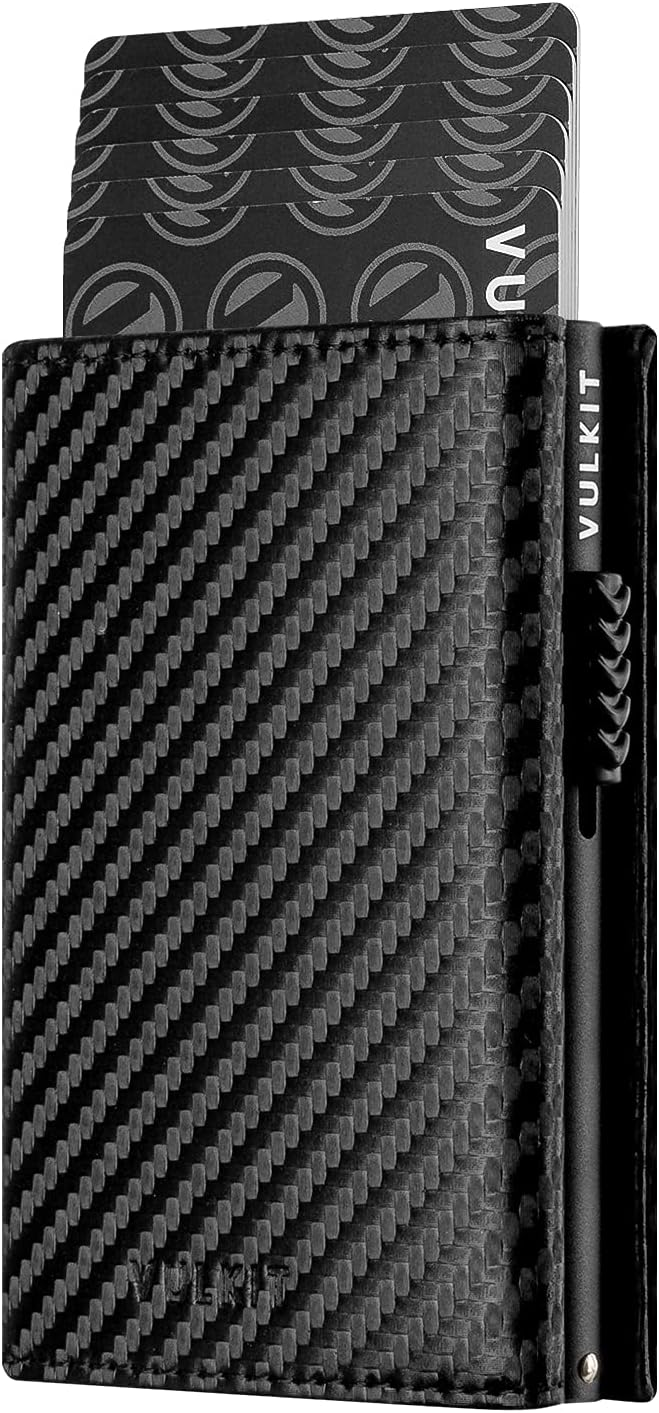
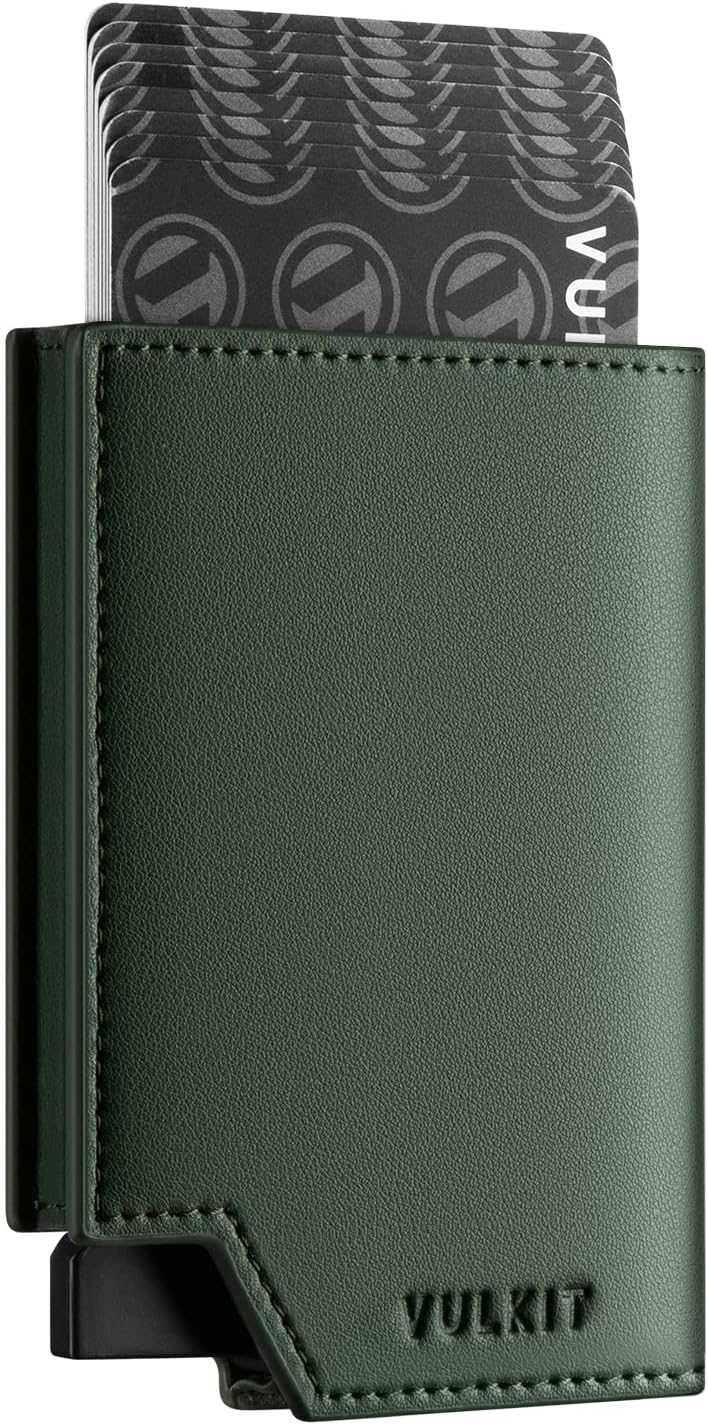
Update VULKIT wallet image to green version

diff --git a/src/data/gifts.ts b/src/data/gifts.ts
@@ -51,9 +51,9 @@ export const gifts: Gift[] = [
   },
   {
     id: 'tarjetero-vulkit',
-    title: 'Tarjetero billetera VULKIT',
+    title: 'Tarjetero billetera VULKIT (Verde)',
     description:
-      '**Tarjetero billetera VULKIT** con protección RFID, mecanismo pop-up para tarjetas, compartimento para efectivo/monedas y cierre magnético.',
+      '**Tarjetero billetera VULKIT** en color verde con protección RFID, mecanismo pop-up para tarjetas, compartimento para efectivo/monedas y cierre magnético.',
     image: '/images/tarjetero-vulkit.jpg',
     storeUrl: 'https://www.amazon.com.mx/dp/B0F7QNGVPG',
     category: 'Accesorios',
